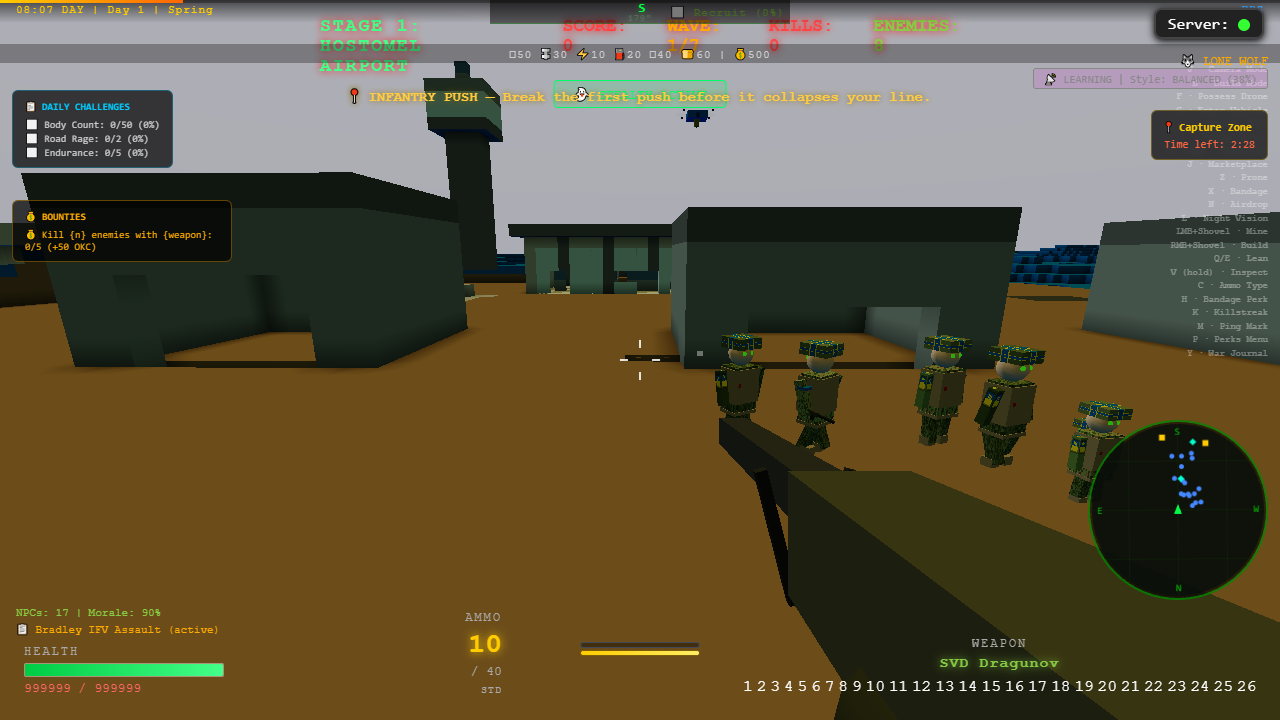
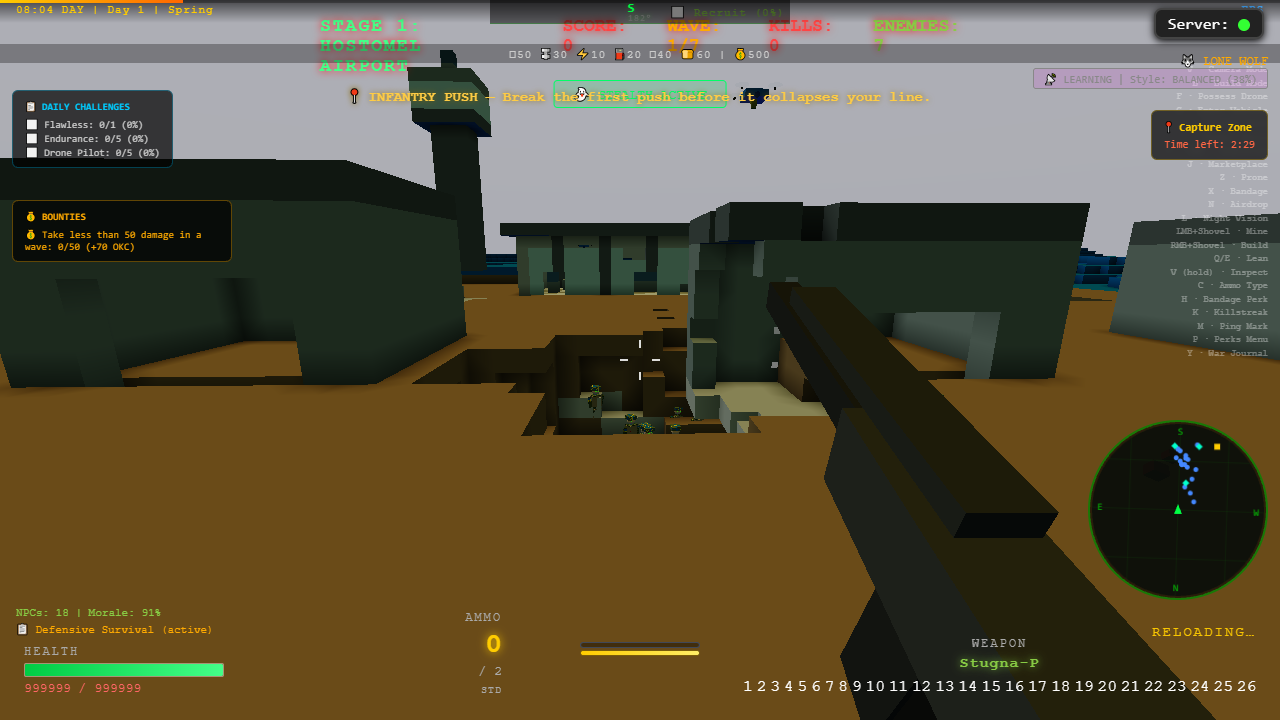
fix: resolve bounty {n} template variable + improve QA bot combat
- progression.js: generateBounties() now replaces {n} with target
  value and {weapon} with random weapon name before display
- test-gameplay.js: bot fires 3s continuous burst (was 600ms),
  approaches enemies to 8 blocks (was 14), re-triggers mouseNewPress
  for semi-auto weapons, prioritizes assault/LMG/sniper weapons
- Result: bounties show real numbers, kills 1->2, score 600->900

QA: 38/0 master, 21/0 v2, 23 screenshots 0 errors

diff --git a/tools/test-gameplay.js b/tools/test-gameplay.js
@@ -215,9 +215,9 @@ if (!fs.existsSync(SCREENSHOT_DIR)) fs.mkdirSync(SCREENSHOT_DIR, { recursive: tr
   }));
   console.log('After 5s:', JSON.stringify(state));
 
-  // Weapon switch schedule — cycle through ranged weapons (skip 0=shovel melee, 3m range)
-  // god mode unlocks all 26 weapons (indices 0-25)
-  const WEAPON_SCHEDULE = [1,2,3,4,5,6,7,8,9,10,11,12,13,14,15,16,17,18,19,1];
+  // Weapon switch schedule — prioritize effective ranged weapons for kill-testing
+  // god mode unlocks all weapons; lead with assault/LMG/sniper for best kill rate
+  const WEAPON_SCHEDULE = [2,3,4,5,8,2,3,14,15,16,9,10,11,12,13,2,3,5,8,2];
 
 
   // EXTENDED QA: 20 gameplay rounds, 5s interval (fast QA pass)
@@ -359,12 +359,14 @@ if (!fs.existsSync(SCREENSHOT_DIR)) fs.mkdirSync(SCREENSHOT_DIR, { recursive: tr
           const dx = ep.x - pos.x;
           const dz = ep.z - pos.z;
           const dist = Math.sqrt(dx * dx + dz * dz);
-          if (dist > 14) {
-            const step = Math.min(4, Math.max(2.5, dist - 14));
+          if (dist > 8) {
+            const step = Math.min(5, Math.max(3, dist - 8));
             const factor = step / dist;
             movePlayerSafely(pos.x + dx * factor, pos.z + dz * factor);
+          } else if (dist < 3) {
+            movePlayerSafely(pos.x - dx * 0.3, pos.z - dz * 0.3);
           } else {
-            movePlayerSafely(anchor.x + (Math.random() - 0.5) * 6, anchor.z + (Math.random() - 0.5) * 6);
+            movePlayerSafely(anchor.x + (Math.random() - 0.5) * 4, anchor.z + (Math.random() - 0.5) * 4);
           }
           const aimDx = ep.x - pos.x;
           const aimDy = (ep.y + 1.0) - pos.y;
@@ -380,9 +382,16 @@ if (!fs.existsSync(SCREENSHOT_DIR)) fs.mkdirSync(SCREENSHOT_DIR, { recursive: tr
           if (Weapons.refillAllAmmo) Weapons.refillAllAmmo();
           if (Weapons.refillAllAmmo) Weapons.refillAllAmmo();
         }
-        // Fire weapon
+        // Fire weapon — continuous burst for better kill rate
         if (typeof GameManager._testFireStart === 'function') GameManager._testFireStart();
-        setTimeout(() => { if (typeof GameManager._testFireStop === 'function') GameManager._testFireStop(); }, 600);
+        // Re-trigger mouseNewPress periodically for semi-auto weapons
+        var _fireInterval = setInterval(() => {
+          if (typeof GameManager._testFireStart === 'function') GameManager._testFireStart();
+        }, 200);
+        setTimeout(() => {
+          clearInterval(_fireInterval);
+          if (typeof GameManager._testFireStop === 'function') GameManager._testFireStop();
+        }, 3000);
       } catch (e) { /* ignore movement errors */ }
     }, { wIdx: weaponIdx, shot });
     // Wait 5 seconds, then screenshot

diff --git a/progression.js b/progression.js
@@ -117,10 +117,17 @@ const Progression = (function () {
       const template = shuffled[i];
       const tier = Math.min(2, Math.floor(wave / 4));
       const targets = { weapon_kill: [5, 10, 20], survive: [2, 4, 6], build: [3, 6, 10], collect: [5, 10, 15], damage: [500, 1000, 2000], headshot_wave: [3, 5, 8], speed_wave: [60, 45, 30], low_damage: [50, 25, 10] };
+      const targetVal = (targets[template.type] || [5, 10, 20])[tier];
+      let resolvedName = template.name.replace('{n}', targetVal);
+      if (resolvedName.indexOf('{weapon}') !== -1) {
+        const weaponNames = ['AK-74M', 'RPK-74', 'SVD Dragunov', 'PKM', 'M4A1', 'FN SCAR-H', 'Barrett M82', 'MP5 SMG'];
+        resolvedName = resolvedName.replace('{weapon}', weaponNames[Math.floor(Math.random() * weaponNames.length)]);
+      }
       activeBounties.push({
         ...template,
+        name: resolvedName,
         tier,
-        target: (targets[template.type] || [5, 10, 20])[tier],
+        target: targetVal,
         reward: template.rewards[tier],
         progress: 0,
         completed: false
